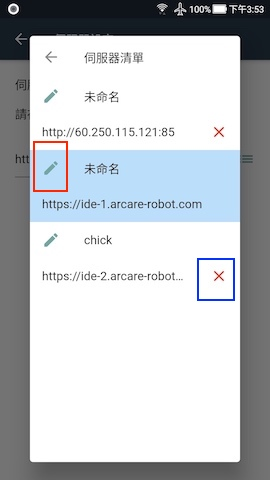
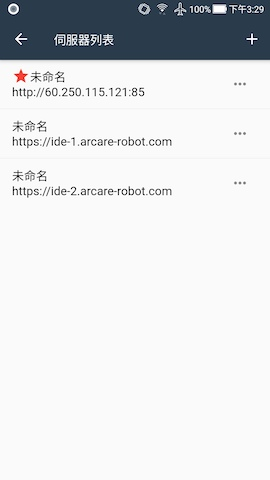
修改伺服器列表流程及UI

diff --git a/8.10.0/UPDATE/ITEM_9/README.md b/8.10.0/UPDATE/ITEM_9/README.md
@@ -17,40 +17,74 @@
 ### <div id="specification">功能說明</div>
   * 需求展開  
     * 新增伺服器
-      * 可新增可連線的伺服器
+      * 新增可連線的伺服器
+      * 預設名稱"未命名"
+      * 預設網址"https://xxxx.arcare-robot.com"
+        * 可手動輸入/QRCode輸入
+      * 預設未勾選"設定為使用中"
+      * 無使用中的伺服器的狀態下會直接顯示新增伺服器畫面
+    * 設定(修改伺服器)
+      * 可修改名稱/網址/使用中
+      * 正在使用中的伺服器不可取消使用中
+    * 更換伺服器/設定伺服器
+      * 可切換伺服器
+      * 正在使用中的伺服器無須切換
     * 刪除伺服器
       * 可刪除列表中的伺服器
-    * 伺服器名稱
-      * 可修改列表中的伺服器
+      * 正在使用中的伺服器不可刪除
     * 登入狀態記錄
       * 可記錄登入帳密及記錄勾選設定，一個伺服器只記錄一組
 
 #### <div id="photo">畫面</div>
-  * 新增伺服器(紅框為伺服器清單)
-  
-    ![Servrer Add](./image/server_add.jpg)
-
-  * 伺服器清單(紅框為修改名稱，藍框為刪除伺服器)
+  * 伺服器清單
   
     ![Servrer List](./image/server_list.jpg)
 
-  * 修改伺服器名稱
+  * 新增伺服器
   
-    ![Servrer Name](./image/server_name.jpg)
+    ![Servrer Add](./image/server_add.jpg)
+
+  * 設定伺服器(修改伺服器)
+  
+    ![Servrer Edit](./image/server_edit.jpg)
+
+  * 更換伺服器
+  
+    ![Servrer Change](./image/server_change.jpg)
+
+  * 刪除伺服器
+  
+    ![Servrer Delete](./image/server_delete.jpg)
+
+  * 功能項目(無設定伺服器)
+  
+    ![Servrer List Menu Not Set](./image/server_list_menu_not_set.jpg)
+
+  * 功能項目(已設定伺服器)
+  
+    ![Servrer List Menu Set](./image/server_list_menu_set.jpg)
+
+  * 功能項目(未設定伺服器)
+  
+    ![Servrer List Menu Unset](./image/server_list_menu_unset.jpg)
+
+  * 返回(無伺服器)
+  
+    ![Servrer List no data](./image/server_list_no_data.jpg)
+
+  * 返回(未設定伺服器)
+  
+    ![Servrer List not set](./image/server_list_not_set.jpg)
 
   * 記錄登入帳密(紅框處)
 
     ![Servrer Account Password](./image/server_account_password.jpg)
 
 #### <div id="workflow">作業流程</div>
-  * 新增伺服器
-  
-    ![Servrer Add](./image/workflow_server_add.png)
-
   * 伺服器清單
   
     ![Servrer List](./image/workflow_server_list.png)
 
-  * 修改伺服器名稱
+  * 伺服器清單功能
   
-    ![Servrer Name](./image/workflow_server_edit_name.png)
+    ![Servrer List Function](./image/workflow_server_list_function.png)
